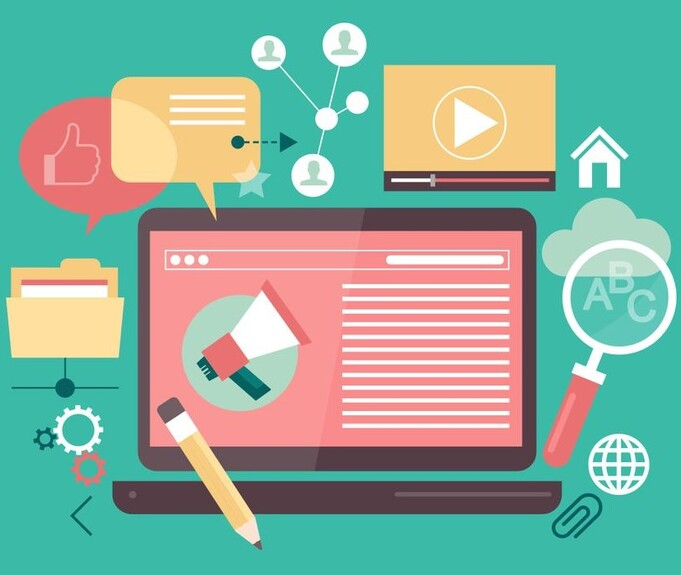
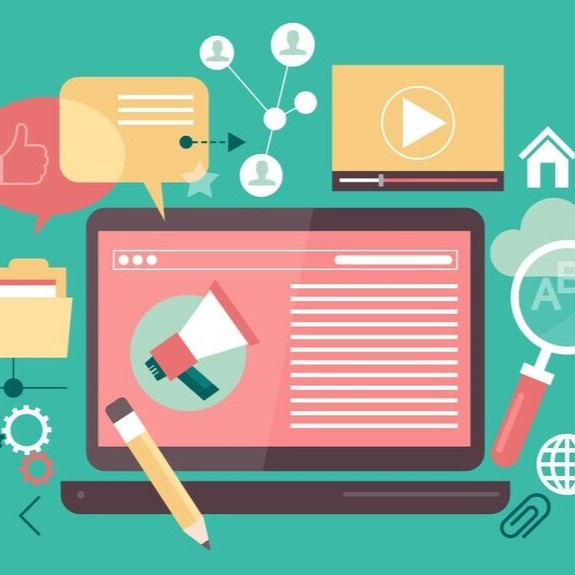
project1-2 changes

diff --git a/index.html b/index.html
@@ -298,7 +298,7 @@
           <div class="details-container color-container">
             <div class="article-container">
               <img
-                src="./assets/Contact-manager.webp"
+                src="./assets/c2.jpg"
                 alt="Contact Manager App"
                 class="project-img"
               />
